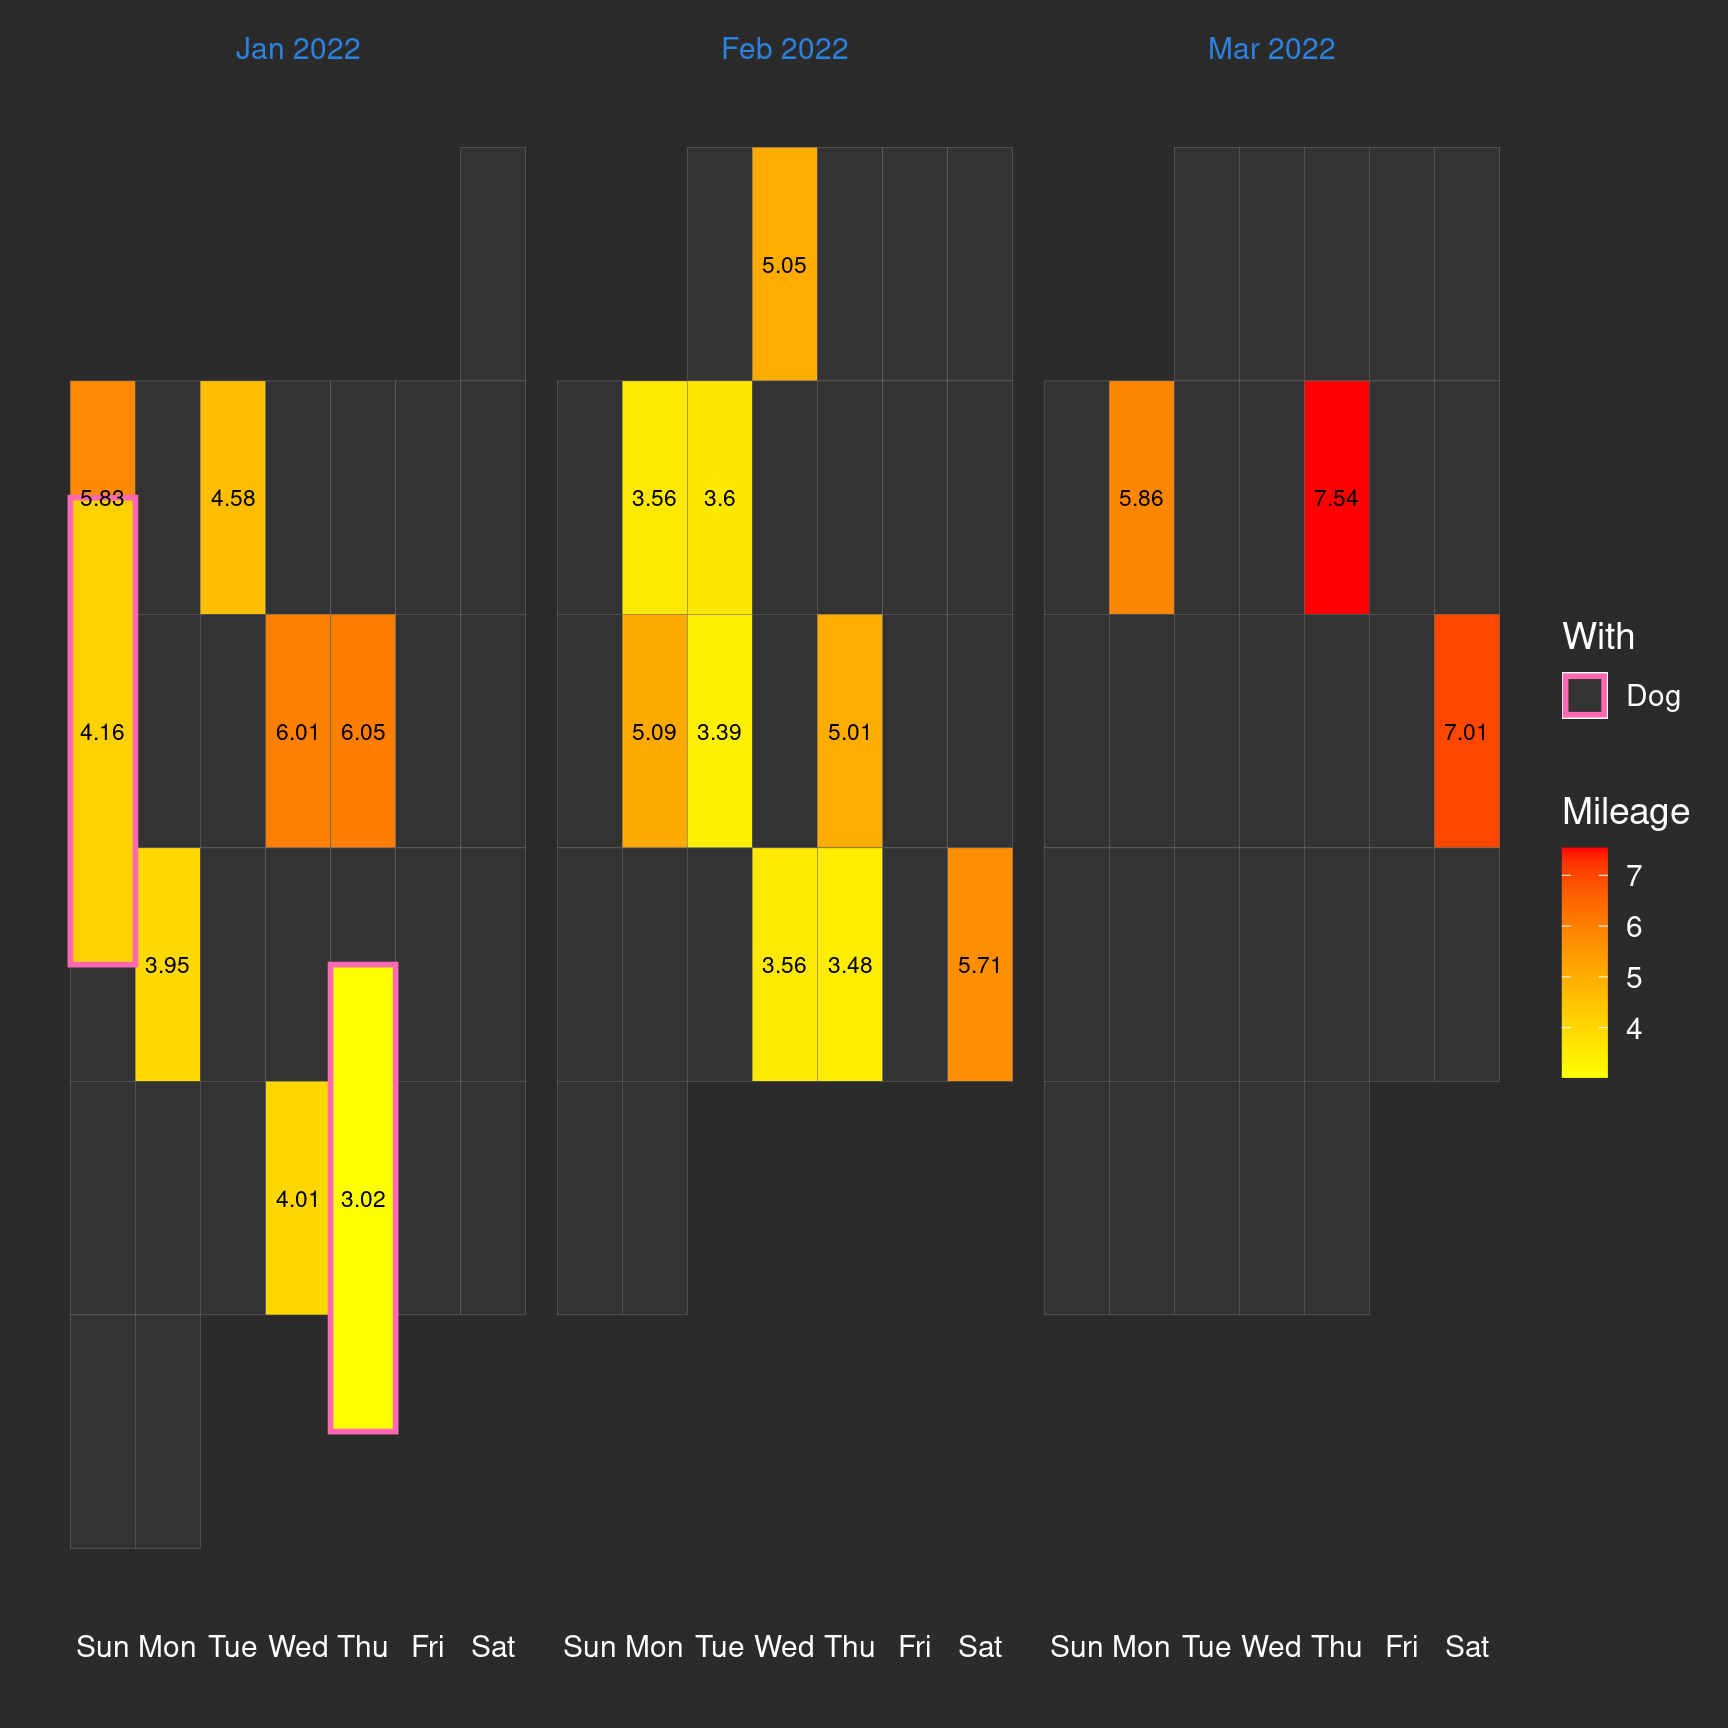
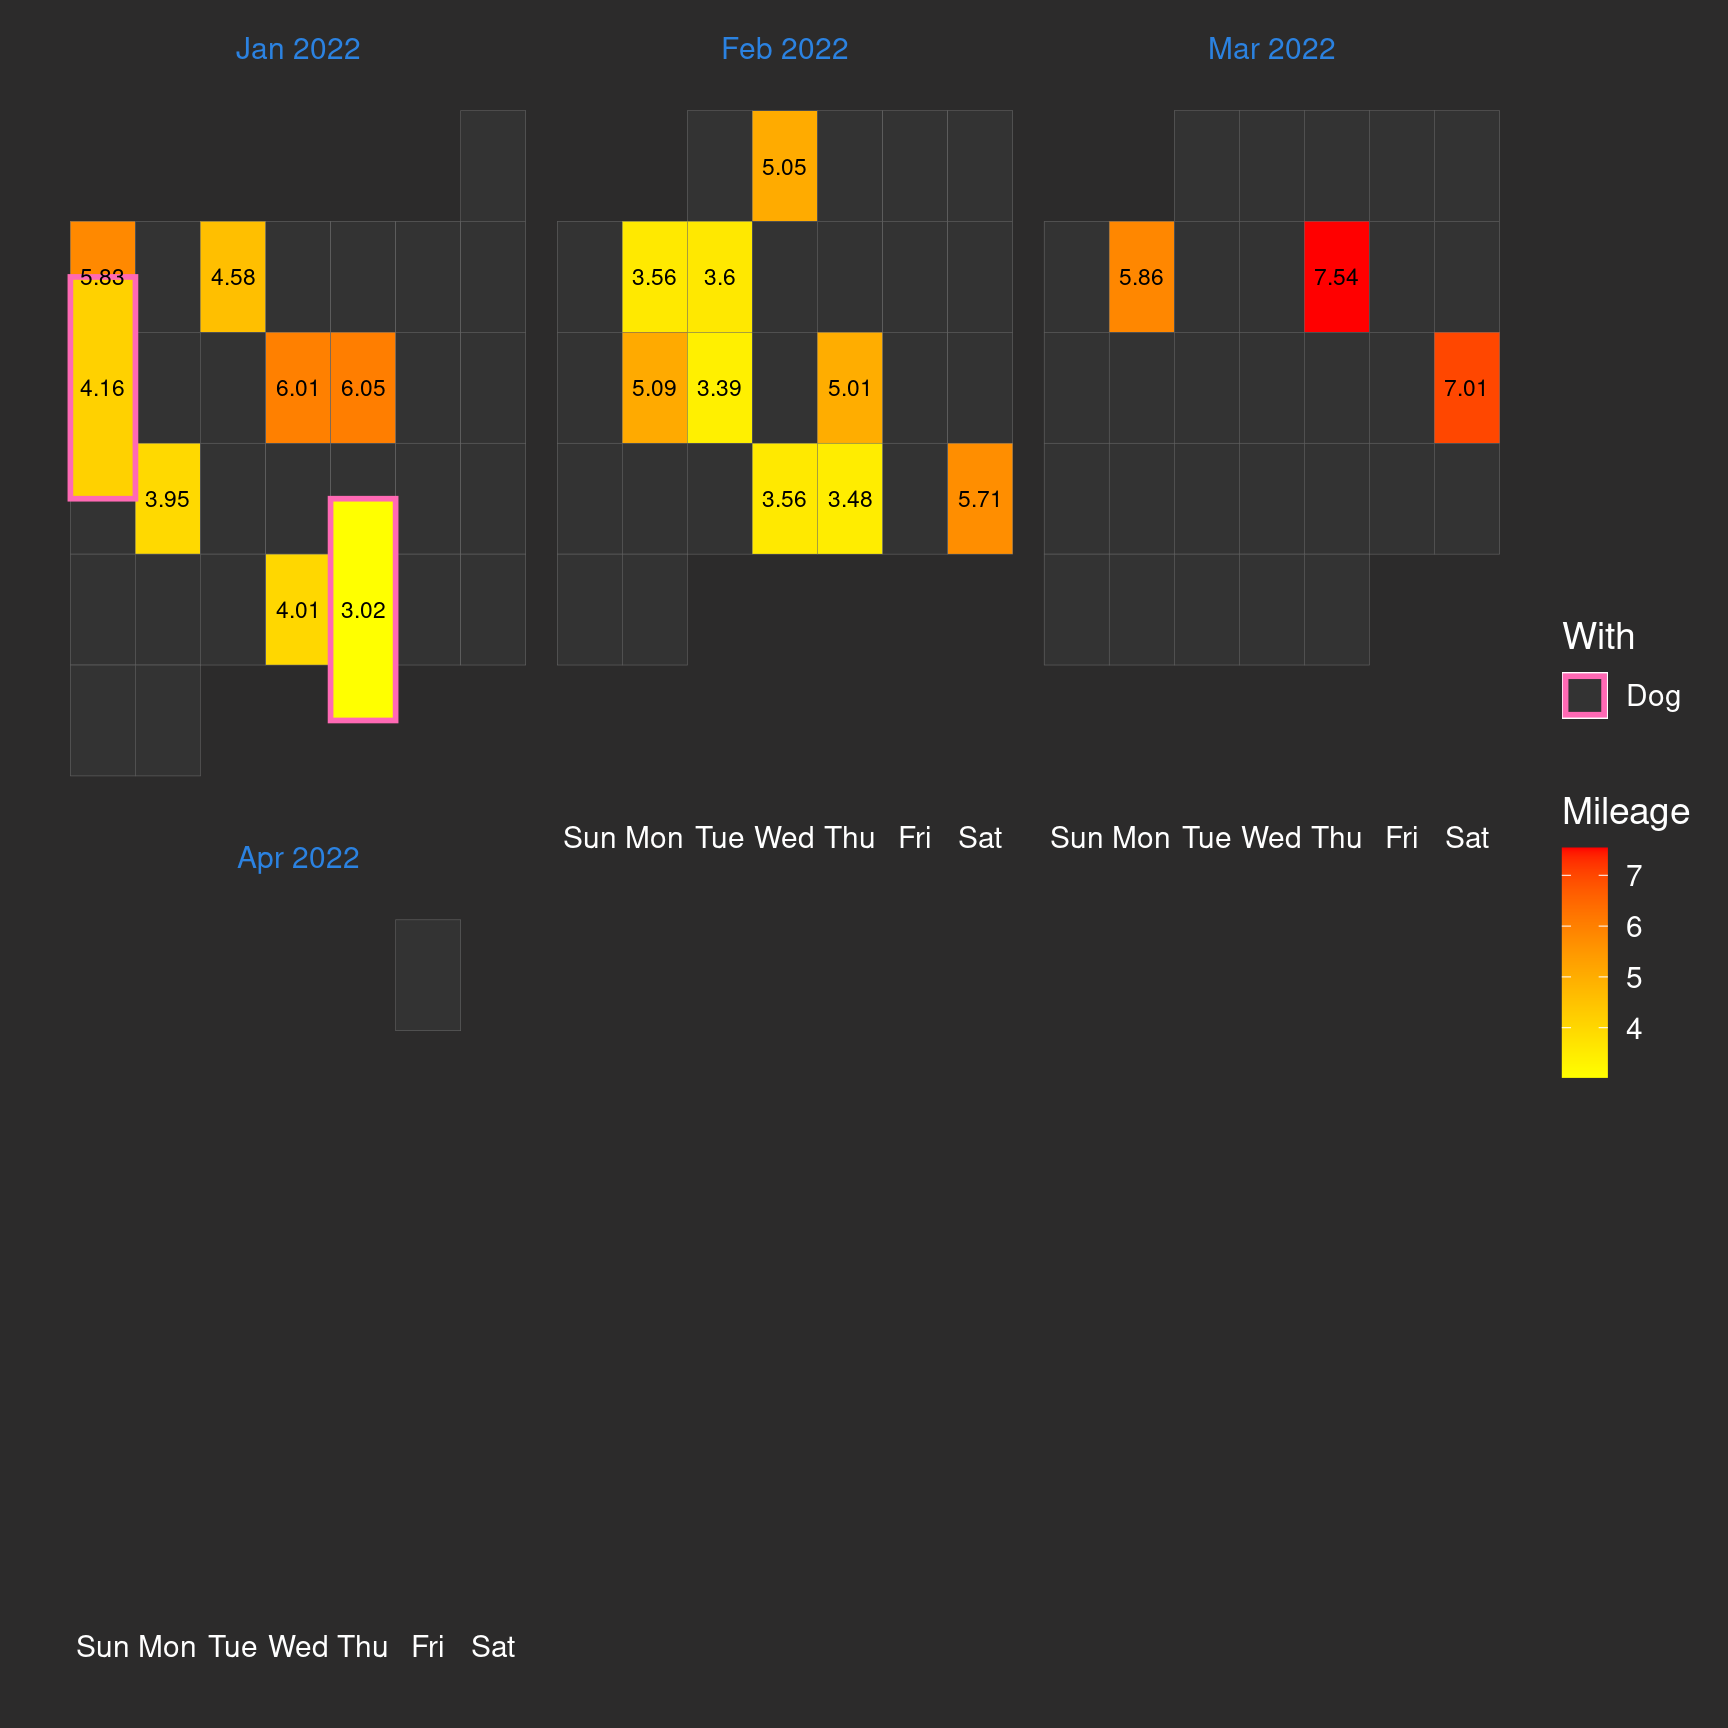
cron auto-update run log

diff --git a/content/run/2022/log.html b/content/run/2022/log.html
@@ -1,6 +1,6 @@
 ---
 title: "2022"
-date: "2022-03-31"
+date: "2022-04-01"
 output: html_document
 ---
 
